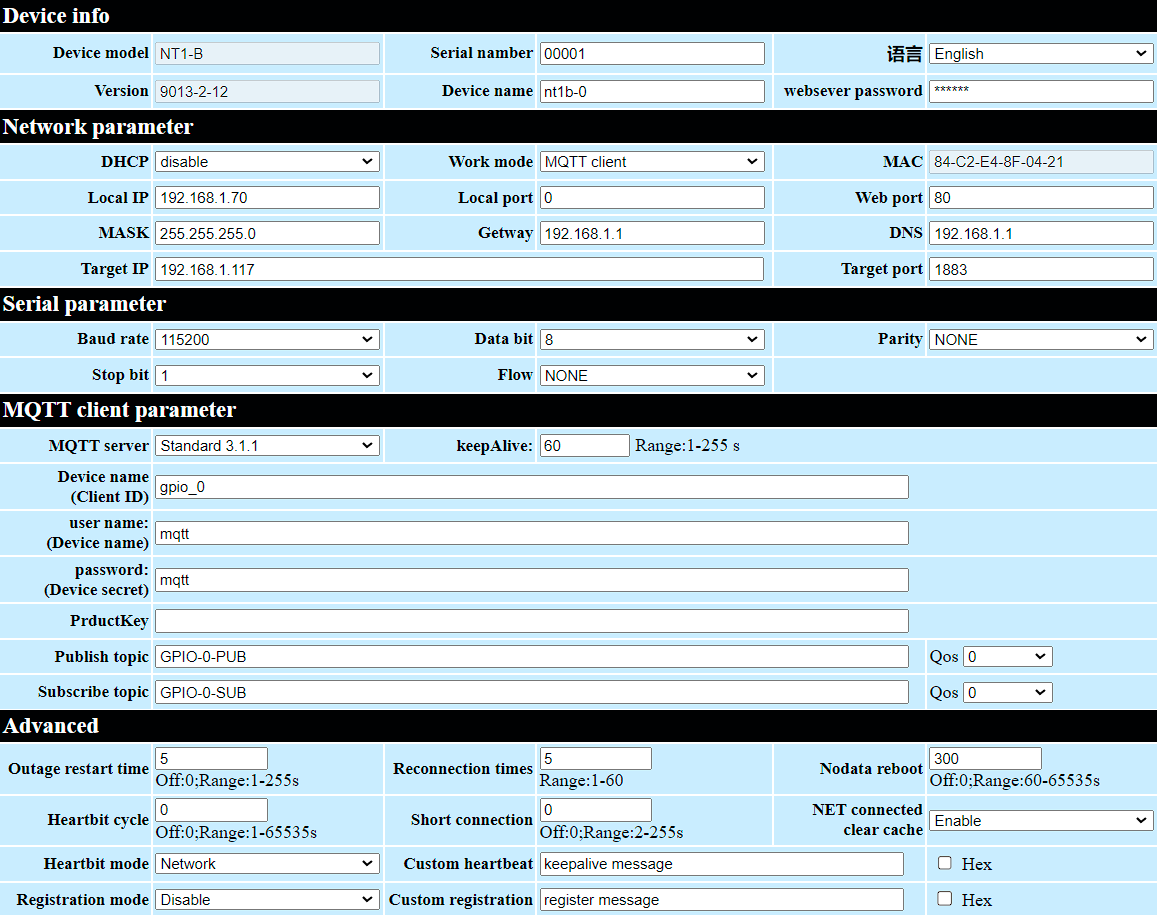
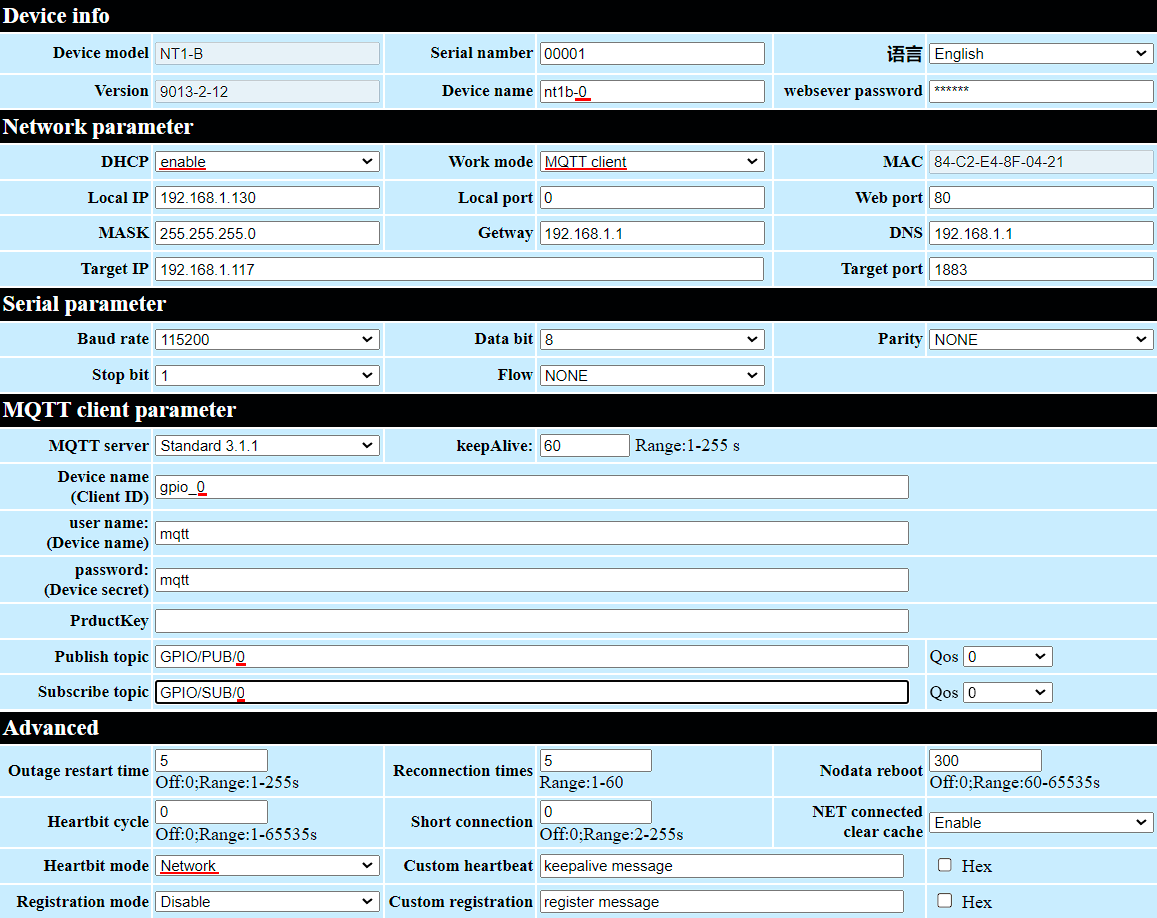
dali

diff --git a/docs/light/gpio/gpio-ethernet.md b/docs/light/gpio/gpio-ethernet.md
@@ -6,15 +6,21 @@ https://www.cdebyte.com/products/NT1-B
 
 ![](gpio1.svg)
 
-
-<details><summary><b>Настройка модуля</b></summary>
+## Настройка модуля
+<details><summary>Настройка модуля</summary>
   
 Первоначально модуль сидит на статическом адресе 192.168.3.3
 настраиваем сеть компа и заходим
 
 ![](nt1b_mqtt_settings.png)
 
-Настоятельно рекомендую настроить именно автоматическое получение адреса по DHCP, но можно как и на примере статическое.
+Настоятельно рекомендую настроить именно автоматическое получение адреса по DHCP.
+
+Устанавливаем там где 0, нужный нам порядковый номер модуля и нажимаем submit, после чего перезагружаем
+по питанию.
+
+В сети его потом можно будет найти по доменному имени MAC адресу:
+![](mac-domain.png)
 
 </details>
 
